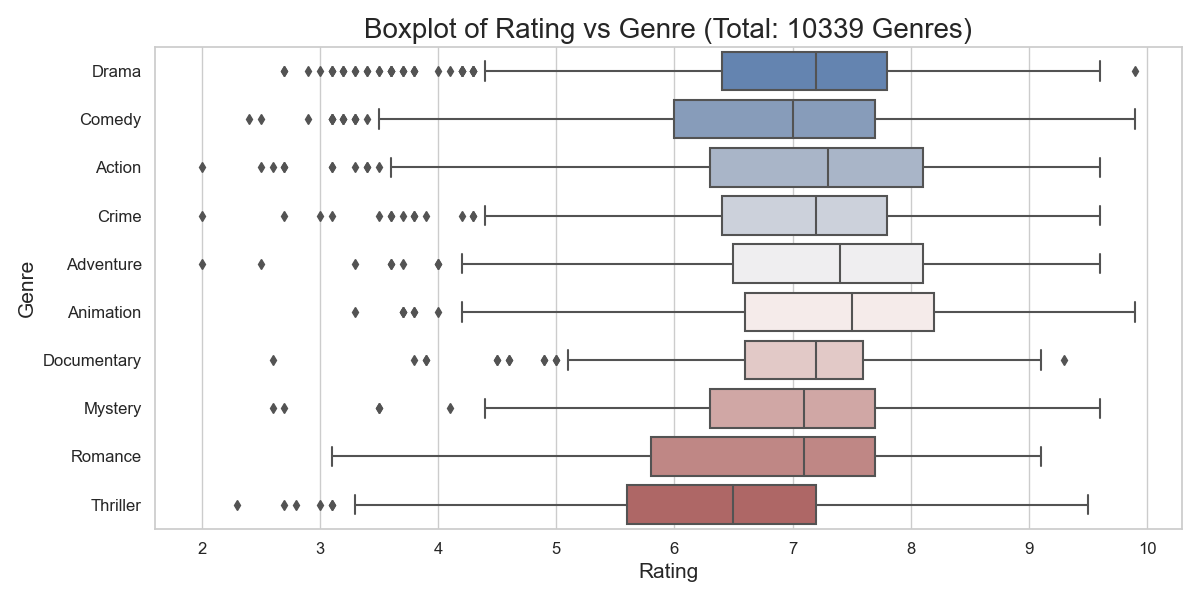
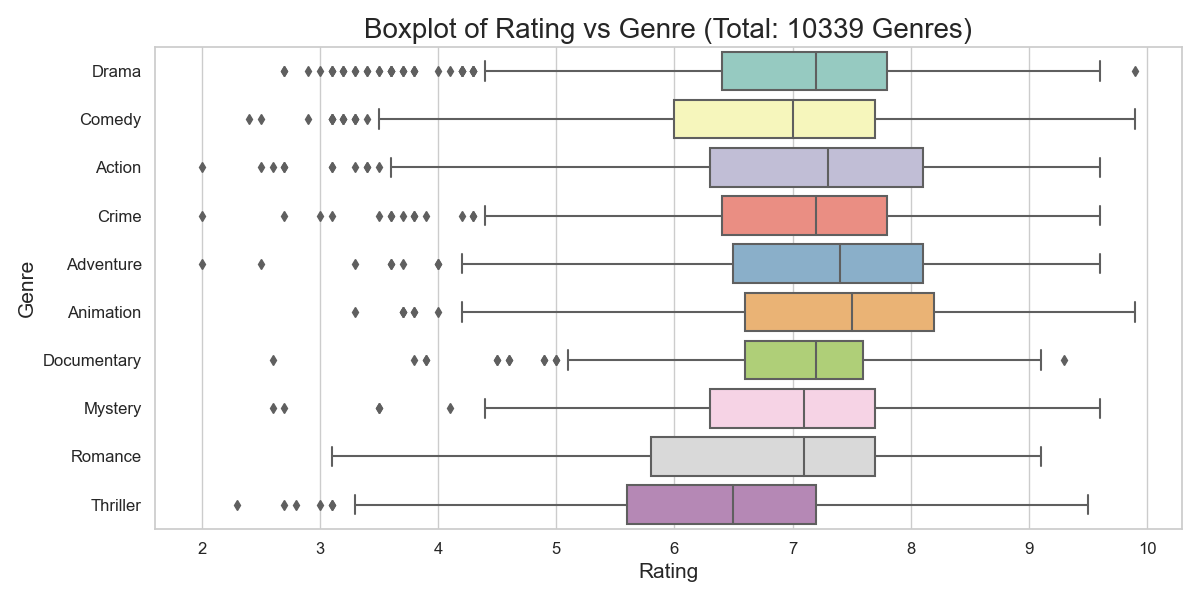
changed color for 'rating' for each 'genre'n

Changed region(s): [[0.5242, 0.33, 0.8017, 0.87], [0.555, 0.09, 0.74, 0.24]]

diff --git a/business_problem.py b/business_problem.py
@@ -1,12 +1,13 @@
 import pandas as pd
 import matplotlib.pyplot as plt
 import seaborn as sns
-sns.set_theme(style="whitegrid")
 
+# Set the style and color palette
+sns.set_theme(style="whitegrid")
+color_palette = "Set3"
 
 # Load the cleaned data
 data_cleaned = pd.read_csv('csvs/merged_cleaned_country.csv')
-
 
 # Explode the 'genre' column into multiple rows
 data_exploded = data_cleaned.assign(genre=data_cleaned['genre'].str.split(', ')).explode('genre')
@@ -15,7 +16,7 @@ data_exploded = data_cleaned.assign(genre=data_cleaned['genre'].str.split(', '))
 plt.figure(figsize=(12, 6))
 sns.boxplot(data=data_exploded, x='rating', y='genre', 
             order=data_exploded['genre'].value_counts().index[:10],
-            palette="vlag")
+            palette=color_palette)
 
 plt.title(f'Boxplot of Rating vs Genre (Total: {len(data_exploded)} Genres)', fontsize=20)
 plt.xlabel('Rating', fontsize=15)
